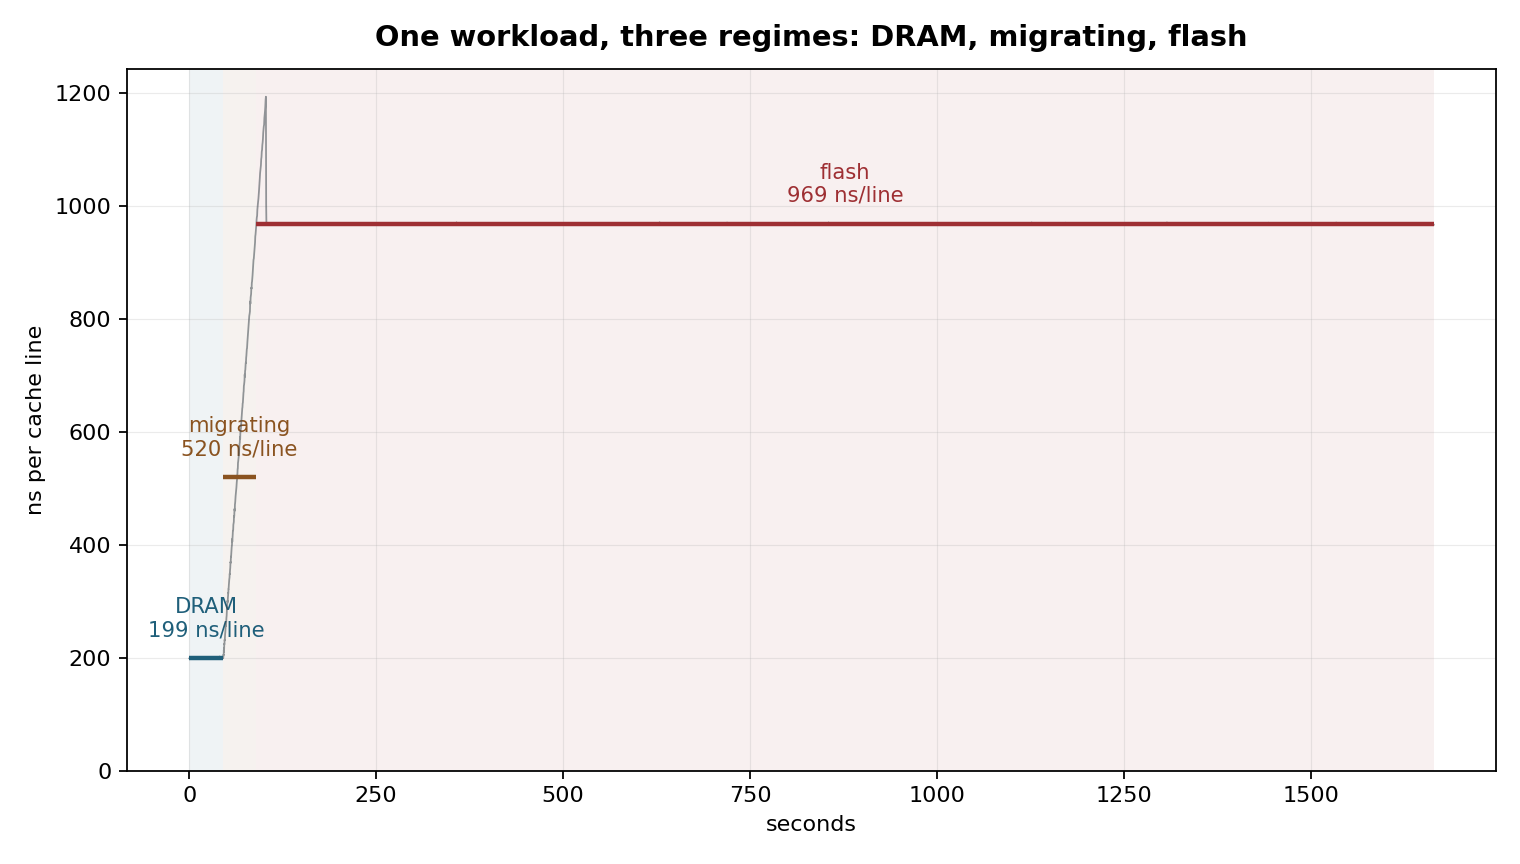
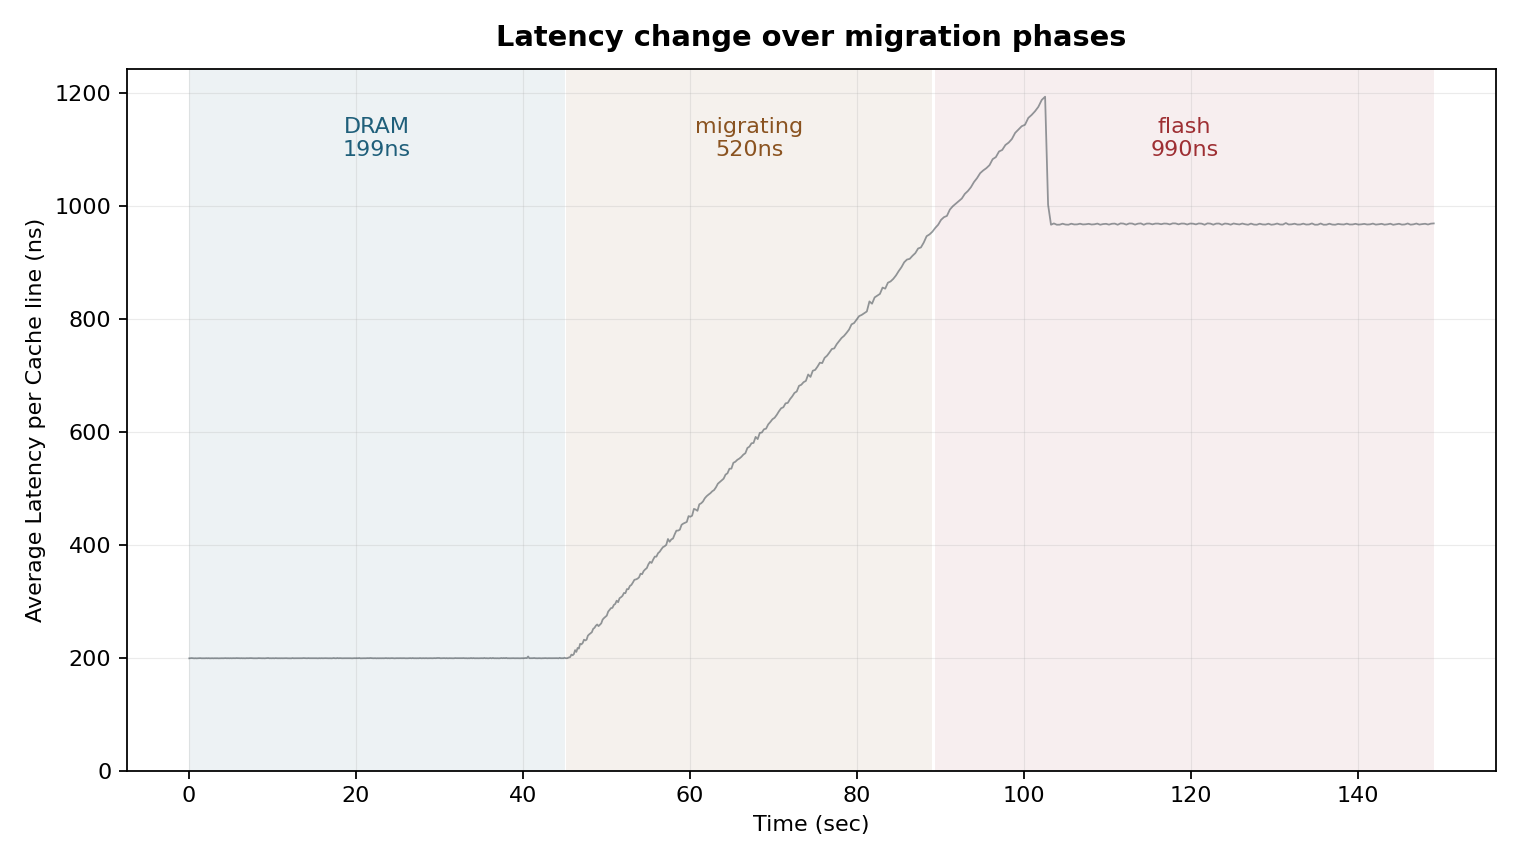
fig7: no mean lines, trimmed tail, new labels; add sweep_timeline.sh
The regime labels now carry the value alone -- DRAM 199ns, migrating 520ns,
flash 969ns -- with no drawn mean and no repeated unit, and the plot stops
60 s into the flash regime instead of running out to 1,665 s.

sweep_timeline.sh is section N on its own, at 192 MiB, so fig7 can be
regenerated in about half an hour instead of a full cycle.

diff --git a/scripts/plot_selftest.py b/scripts/plot_selftest.py
@@ -222,18 +222,21 @@ if r:
     # Shade the three regimes rather than drawing three separate series: it is
     # one continuous workload and the point is that nothing about it changed
     # except where its pages live.
-    for p_, col_, lab in ((1, "#1F5F7A", "DRAM"),
-                          (2, "#8a5320", "migrating"),
+    # Trim the tail: 60 s of the flash regime is enough to show it settled.
+    p3i = [i for i, q in enumerate(ph) if q == 3]
+    if p3i:
+        cut = t[p3i[0]] + 60
+        keep = [i for i, x in enumerate(t) if x <= cut]
+        t = [t[i] for i in keep]; ns = [ns[i] for i in keep]; ph = [ph[i] for i in keep]
+
+    for p_, col_, lab in ((1, "#1F5F7A", "DRAM"), (2, "#8a5320", "migrating"),
                           (3, "#9E2F33", "flash")):
         xs = [x for x, q in zip(t, ph) if q == p_]
         if not xs: continue
-        ax.axvspan(min(xs), max(xs), color=col_, alpha=.07, lw=0)
-        mid = (min(xs) + max(xs)) / 2
+        ax.axvspan(min(xs), max(xs), color=col_, alpha=.08, lw=0)
         mean = sum(y for y, q in zip(ns, ph) if q == p_) / len(xs)
-        ax.hlines(mean, min(xs), max(xs), color=col_, lw=2, zorder=4)
-        ax.annotate(f"{lab}\n{mean:.0f} ns/line", (mid, mean), ha="center", va="bottom",
-                    fontsize=9.5, color=col_, fontweight="medium",
-                    xytext=(0, 8), textcoords="offset points")
+        ax.annotate(f"{lab}\n{mean:.0f}ns", ((min(xs) + max(xs)) / 2, max(ns) * 0.97),
+                    ha="center", va="top", fontsize=10, color=col_, fontweight="medium")
     ax.plot(t, ns, "-", color="#3d474e", lw=.8, alpha=.55, zorder=3)
     ax.set_ylim(bottom=0)
 
@@ -244,8 +247,8 @@ if r:
         ax2.set_ylabel("% of the weights in flash", color="#0f6b70")
         ax2.tick_params(axis="y", colors="#0f6b70")
         ax2.set_ylim(0, 105)
-    frame(ax, "One workload, three regimes: DRAM, migrating, flash",
-          "seconds", "ns per cache line")
+    frame(ax, "Latency change over migration phases",
+          "Time (sec)", "Average Latency per Cache line (ns)")
     fig.tight_layout(); fig.savefig(f"{OUT}/fig7-transition-timeline.png", dpi=160)
     made.append("fig7-transition-timeline")
 
